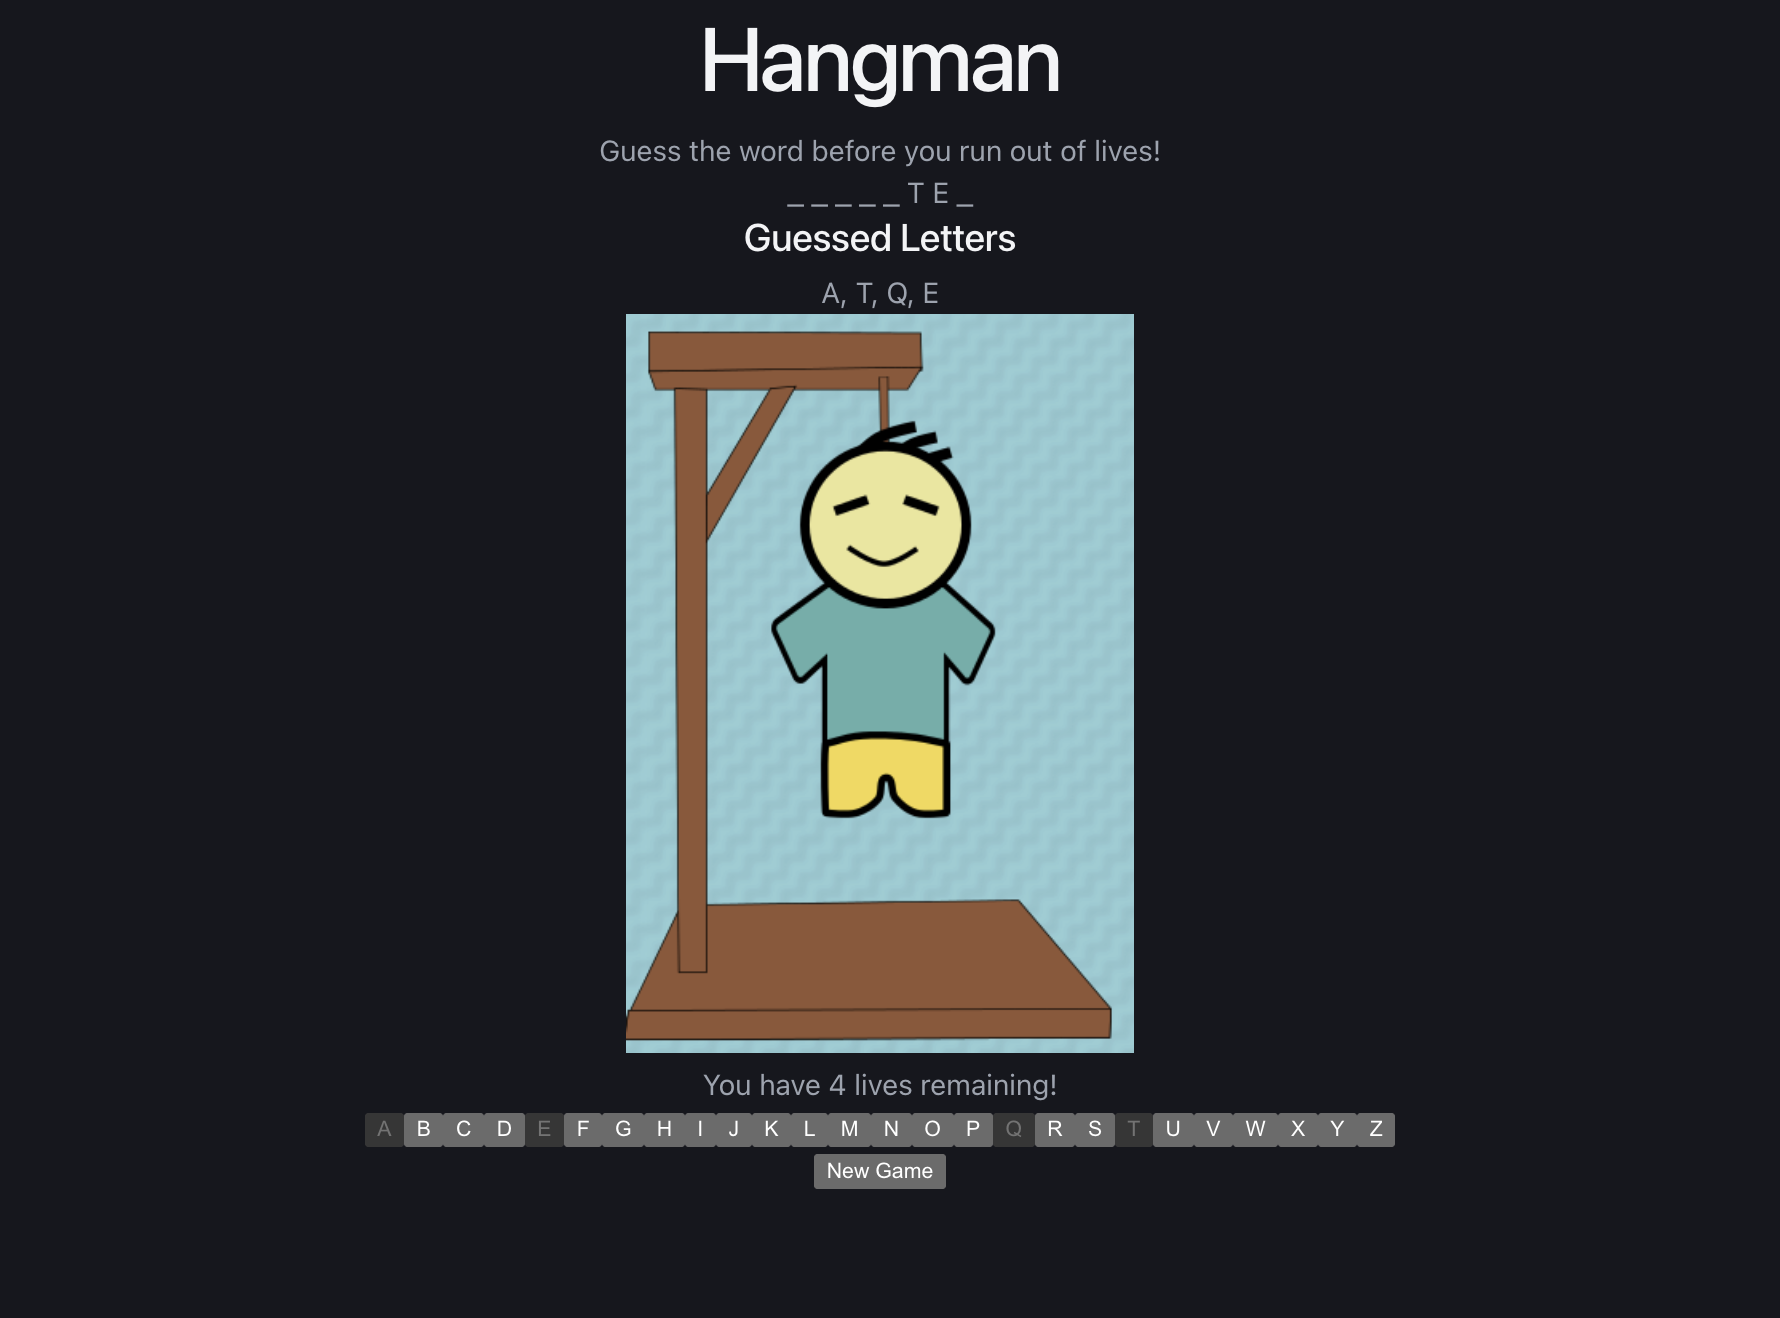
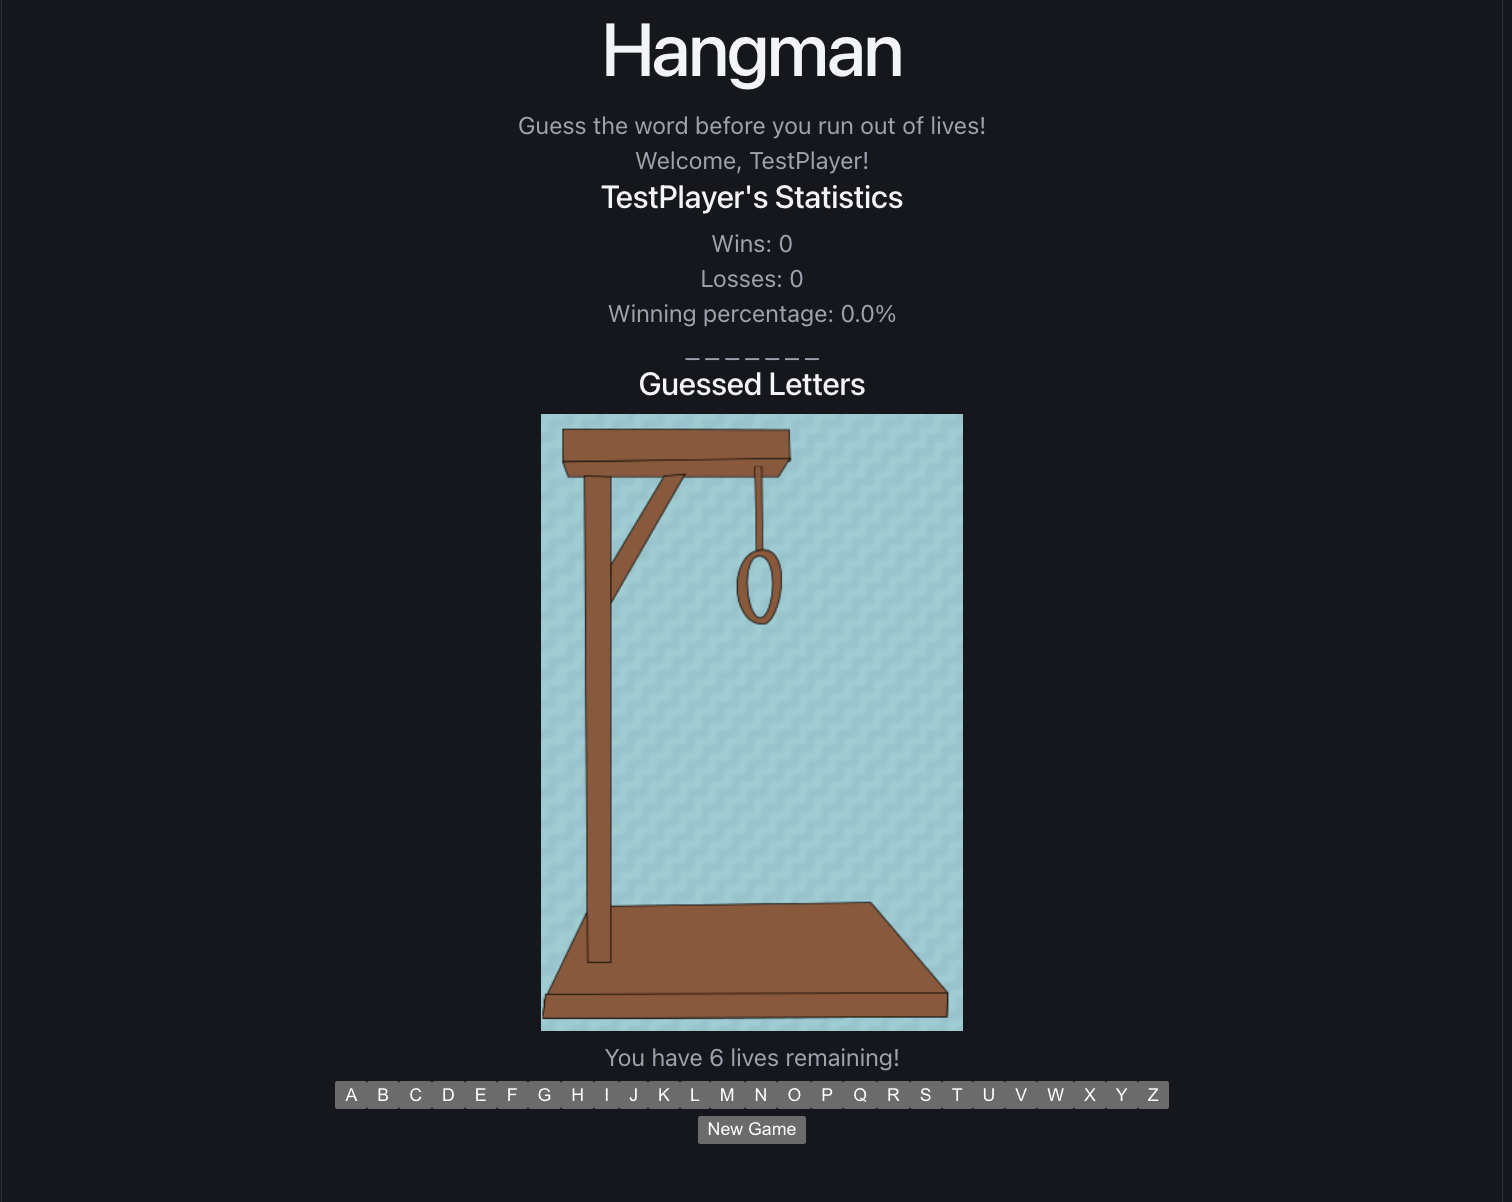
Add player API, persistent statistics, and updated documentation

Changed region(s): [[0.1865, 0.0, 0.8082, 0.9542]]

diff --git a/README.md b/README.md
@@ -1,87 +1,275 @@
-# Hangman 
----
+# Hangman
+
+A React Hangman game with persistent player statistics, an Express API, and DynamoDB Local.
 
 ## Table of Contents
 
 - [Description](#description)
-- [Screenshot] (#screenshot)
+- [Screenshot](#screenshot)
 - [Demo](#demo)
 - [Getting Started](#getting-started)
 - [Usage](#usage)
-- [Running with Docker](#running-with-docker)
+- [Project Structure](#project-structure)
+- [API Endpoints](#api-endpoints)
+- [Testing](#testing)
+- [Stopping the Project](#stopping-the-project)
 - [Technologies Used](#technologies-used)
-- [License](#license)
-
----
+- [AI Contribution](#ai-contribution)
 
 ## Description
 
-A Hangman game built with React and Vite. Players select letter buttons to reveal a hidden word. Each incorrect guess adds a part to the hangman and reduces the remaining lives. The game displays previously guessed letters, shows a win or loss popup, and lets players start another round with a different word.
+Players select letters to reveal a hidden word. Each incorrect guess
+advances the hangman image and reduces the remaining lives. The game
+displays previously guessed letters, shows a win or loss popup, and
+allows players to start another round with a different word.
 
----
+Players enter a name to find an existing record or create a new one.
+Each record has a unique playerID, allowing multiple players to share
+a name without overwriting one another's statistics. When multiple
+records match a name, the player can select their record.
+
+The game displays wins, losses, and winning percentage. Completed
+rounds update React state first, then save the totals through the API
+to DynamoDB. Failed saves display a retry option.
+
+Player selection is name-based and does not use passwords or
+authenticate identity.
 
 ## Screenshot
-![Hangman Demo](docs/hangman-screenshot.png)
 
----
+![Hangman screenshot](docs/hangman-screenshot.png)
 
 ## Demo
-![Hangman Screenshot](docs/hangman-demo.gif)
 
----
+![Hangman gameplay](docs/hangman-demo.gif)
 
 ## Getting Started
 
-### Prerequisites: 
-Ensure these are installed before running!
-Node.js v24, npm, and Git
+### Prerequisites
+
+- Git
+- Docker Desktop with Docker Compose
+
+Node.js and npm run inside the containers, so a separate local Node.js
+installation is not required for the Docker setup.
+
+### Installation and Startup
+
+Clone the repository:
 
 ```bash
-# 1. Fork this repository to your own GitHub account, then clone your fork
-git clone <your-fork-url>
-
-# 2. Move into the project directory
-cd hangman
-
-# 3. Install dependencies needed for the project
-npm install
-
-# 4. Start the development server
-npm run dev
-
-# 5. Open the shown local address(in terminal) in a web browser
+git clone <your-repository-url>
 ```
----
+
+Enter the cloned project folder containing `docker-compose.yml`.
+
+Make sure Docker Desktop is running, then build and start the project:
+
+```bash
+docker compose up --build
+```
+
+Keep this terminal running. Startup prepares the database storage,
+creates the Players table if needed, and starts the API and frontend.
+
+Open these addresses:
+
+| Service | Address |
+|---|---|
+| Hangman game | http://localhost:3000 |
+| API health check | http://localhost:3001/health |
+| DynamoDB Admin | http://localhost:8001 |
+
+Ports 3000, 3001, 8000, and 8001 must be available. Stop any manually
+running Vite or API processes using those ports before starting Compose.
 
 ## Usage
 
-1. Select a letter to guess whether it appears in the hidden word.
-2. Correct guesses reveal every matching letter.
-3. Incorrect guesses reduce your six lives and advance the hangman image.
-4. Previously guessed letters are displayed and disabled.
-5. Reveal the entire word to win before your lives reach zero.
-6. Select New Game to reset the game and choose a different word.
+1. Enter your player name and select Log In.
+2. An existing player record is loaded, or a new record is created.
+3. If multiple players share the name, select the appropriate record.
+4. View your wins, losses, and winning percentage.
+5. Select a letter to guess whether it appears in the hidden word.
+6. Correct guesses reveal every matching letter.
+7. Incorrect guesses reduce your six lives and advance the hangman image.
+8. Previously guessed letters are displayed and disabled.
+9. Reveal the entire word before running out of lives to win.
+10. When the round ends, the result popup appears and statistics are saved.
+11. If saving fails, select Retry Save.
+12. Select New Game after saving to play another round with a different word.
 
----
+## Project Structure
 
-## Running with Docker
+- `src/`: React game components, player login, and statistics display.
+- `public/`: Hangman images and other public assets.
+- `server/server.js`: Express API routes and input validation.
+- `server/db.js`: DynamoDB client configuration.
+- `server/createTable.js`: Creates the Players table and player-name index.
+- `Dockerfile`: Builds and starts the frontend container.
+- `server/Dockerfile`: Builds and starts the API container.
+- `docker-compose.yml`: Starts the frontend, API, database, and admin interface.
+- `.dockerignore` and `server/.dockerignore`: Exclude unnecessary files from builds.
 
-Requires [Docker](https://www.docker.com/) and [Docker Compose](https://docs.docker.com/compose/).
+### Database
+
+The Players table stores:
+
+- `playerID`: Unique string used as the primary key.
+- `playerName`: Player's display name.
+- `wins`: Number of wins.
+- `losses`: Number of losses.
+
+The `playerName-index` secondary index supports queries by name.
+Updates target a playerID so records with the same name remain separate.
+
+DynamoDB data is stored in a named Docker volume.
+
+## API Endpoints
+
+The API runs at `http://localhost:3001`.
+
+| Method | Endpoint | Purpose |
+|---|---|---|
+| GET | `/health` | Confirm the API is running |
+| POST | `/players` | Create a player |
+| GET | `/players?playerName=Ellington` | Find players by name |
+| PUT | `/players/:playerID` | Update a player's wins and losses |
+
+### Create a Player
+
+POST `/players`
+
+JSON request body:
+
+```json
+{
+  "playerName": "Ellington"
+}
+```
+
+Returns `201 Created` with the generated ID, name, and zero wins and losses.
+Invalid names return `400 Bad Request`.
+
+### Find Players
+
+GET `/players?playerName=Ellington`
+
+Returns `200 OK` with an array of matching records. If no player is found,
+returns `404 Not Found`. Missing or invalid names return `400 Bad Request`.
+
+### Update Statistics
+
+PUT `/players/<playerID>`
+
+JSON request body:
+
+```json
+{
+  "wins": 1,
+  "losses": 0
+}
+```
+
+Replace `<playerID>` with an actual ID returned by POST or GET.
+
+Returns `200 OK` with the updated player. Totals must be nonnegative
+integers; invalid totals return `400 Bad Request`. An unknown ID returns
+`404 Not Found`.
+
+This endpoint replaces the totals rather than incrementing them, allowing
+the same save request to be retried without counting a round twice.
+
+## Testing
+
+### API Testing with Postman
+
+Start the project through Docker Compose before testing.
+
+For POST and PUT requests, select Body → raw → JSON in Postman.
+
+| Test | Expected Result |
+|---|---|
+| GET `/health` | 200 with a server-running message |
+| POST `/players` with a valid name | 201 with a new player record |
+| POST `/players` with an empty name | 400 |
+| GET `/players?playerName=Ellington` after creating that player | 200 with matching records |
+| GET with a name that has not been created | 404 |
+| PUT valid totals using an existing playerID | 200 with updated statistics |
+| PUT a negative win count | 400 |
+| PUT valid totals using an unknown playerID | 404 |
+
+After updating statistics, repeat the GET request to confirm the saved totals.
+
+To test duplicate names, send the same POST request twice. Confirm that
+the returned playerIDs differ and that GET returns both records.
+
+### Frontend Testing
+
+- Log in with an existing name and confirm saved statistics appear.
+- Enter a new name and confirm the record starts with zero statistics.
+- Verify correct guesses reveal letters without reducing lives.
+- Verify incorrect guesses reduce lives and advance the image.
+- Verify guessed buttons cannot be selected again.
+- Win a round and confirm wins increase by exactly one.
+- Lose a round and confirm losses increase by exactly one.
+- Refresh and log in again to confirm statistics were saved.
+- Look up a duplicate name, select a record, and confirm only that
+  record's statistics change after a round.
+- Confirm New Game clears guesses, restores lives, and changes the word.
+
+### Persistence Testing
+
+Stop the project, then start it again:
 
 ```bash
-# Build and start the container
+docker compose down
 docker compose up --build
+```
 
-# Stop the container
+Log in with a previous player and confirm their statistics remain.
+
+### Troubleshooting
+
+View container status:
+
+```bash
+docker compose ps -a
+```
+
+View API and database logs:
+
+```bash
+docker compose logs --tail=50 api dynamodb-local
+```
+
+The `dynamodb-init` service is expected to finish with exit code 0 after
+preparing storage permissions.
+
+## Stopping the Project
+
+Press Ctrl+C in the terminal running Compose, then run:
+
+```bash
 docker compose down
 ```
 
-The app will be available at `http://localhost:3000`.
+This preserves the database volume. Avoid `docker compose down -v`
+unless you intend to delete the stored player data.
 
----
 ## Technologies Used
 
-- [React](https://react.dev/)
-- [Vite](https://vitejs.dev/)
-- [Node.js](https://nodejs.org/)
-- [Docker](https://www.docker.com/) 
+- React
+- Vite
+- Node.js
+- Express
+- CORS middleware
+- AWS SDK for JavaScript v3
+- DynamoDB Local
+- DynamoDB Admin
+- Docker and Docker Compose
+- Postman for API testing
+
+## AI Contribution
+
+See the AI contribution statement included in this repository for details
+about the assistance used during development.

diff --git a/AI_CONTRIBUTION.md b/AI_CONTRIBUTION.md
@@ -4,14 +4,16 @@
 
 ChatGPT
 
-## 2. Prompts
+## 2. Prompts and Assistance
 
-As I was still figuring out how to implement the concepts learned in class, ChatGPT played a substantial role in this assignment. I asked it to explain the skills and concepts needed for the project. As I worked through each component, I shared my code for feedback and implemented suggested corrections. I also used it to diagnose errors and guide my thinking. In some cases, it provided hints so I could attempt the implementation myself; in others, it provided code examples that I incorporated into the project.
+ChatGPT played a substantial role in this assignment. I initially asked it to explain the concepts needed to expand my React Hangman game with a backend API and database. We worked through setting up an Express server, connecting to DynamoDB Local, creating a player table, and implementing GET, POST, and PUT endpoints. As I worked, I shared my code for feedback and used its suggestions to correct errors. ChatGPT initially provided explanations and incomplete examples so I could attempt parts myself. ChatGPT also helped connect the React login form to the API using fetch and async/await, display player statistics, save game results, handle duplicate player names, and configure Docker Compose. It guided me through testing requests in Postman and helped revise the README.
 
 ## 3. What It Got Wrong
 
-The initial New Game implementation cleared the guessed letters but kept the same word. Although this was introduced as an intermediate step, it did not yet provide the complete functionality I wanted. We later added random word selection that excluded the current word so consecutive rounds would have different words.
+The initial Docker Compose configuration included persistent database storage but did not account for the data folder's ownership. DynamoDB could not open its database file, preventing database requests from completing. After I shared the logs, ChatGPT helped identify the likely permissions issue and provided a correction. The configuration was later updated to prepare storage permissions during startup.
 
 ## 4. Reflection
 
-Using AI helped me understand how to apply the concepts learned in class. I now have a better understanding of how parent and child components interact through props and how state changes update the interface. Working through my attempts and the suggested corrections helped me understand the purpose of each part of the code.
+Using AI helped me connect the React concepts from the original project to backend development. I gained a better understanding of
+how the frontend sends requests to an API and how the API reads and updates database records. Testing with Postman helped me understand
+the differences between GET, POST, and PUT requests. I also learned that a running container does not necessarily mean the application inside it is working correctly. Checking logs and testing the complete request helped identify problems. Because I incorporated complete code examples, I still need to review parts of the backend and Docker configuration more closely. The project works in my testing, but being able to run the code and being able to explain every line are different levels of understanding.
